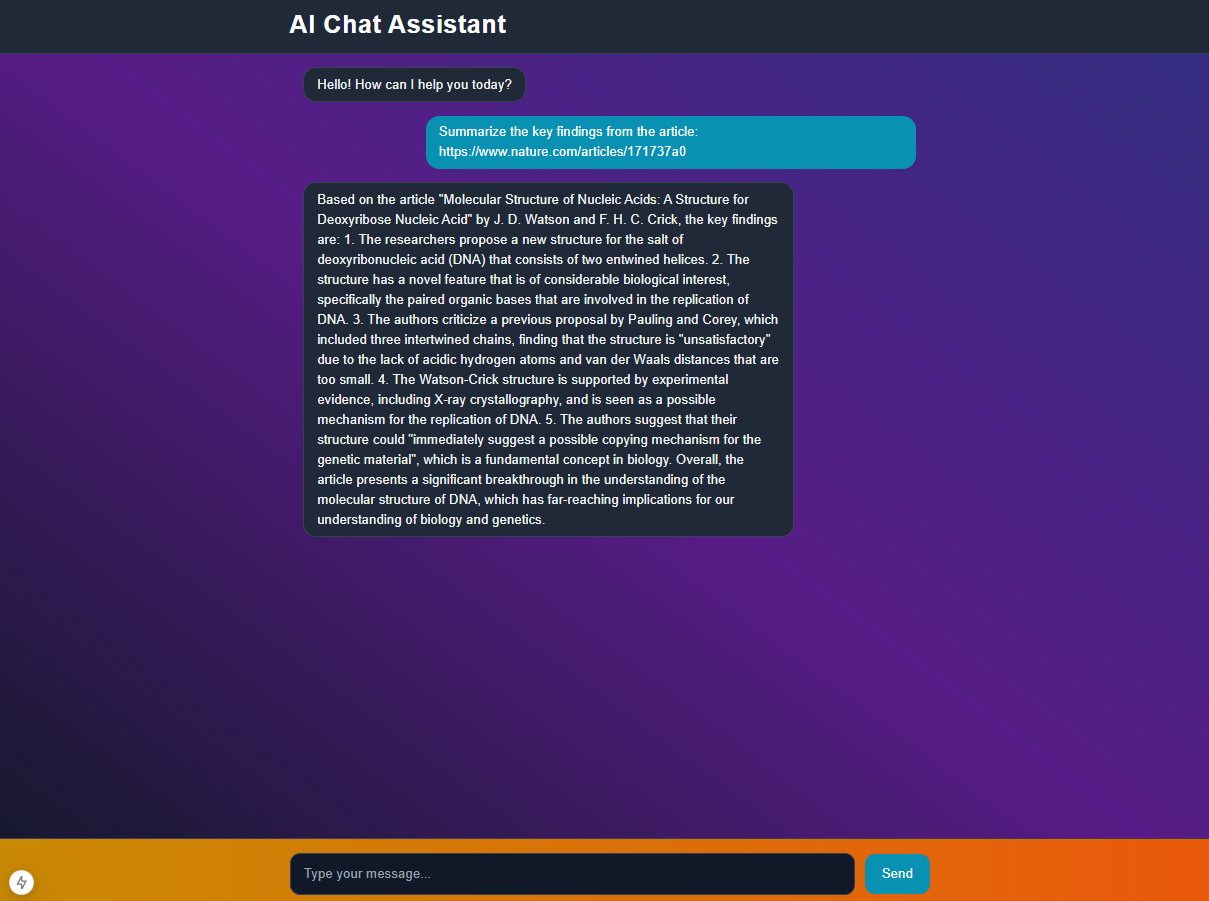
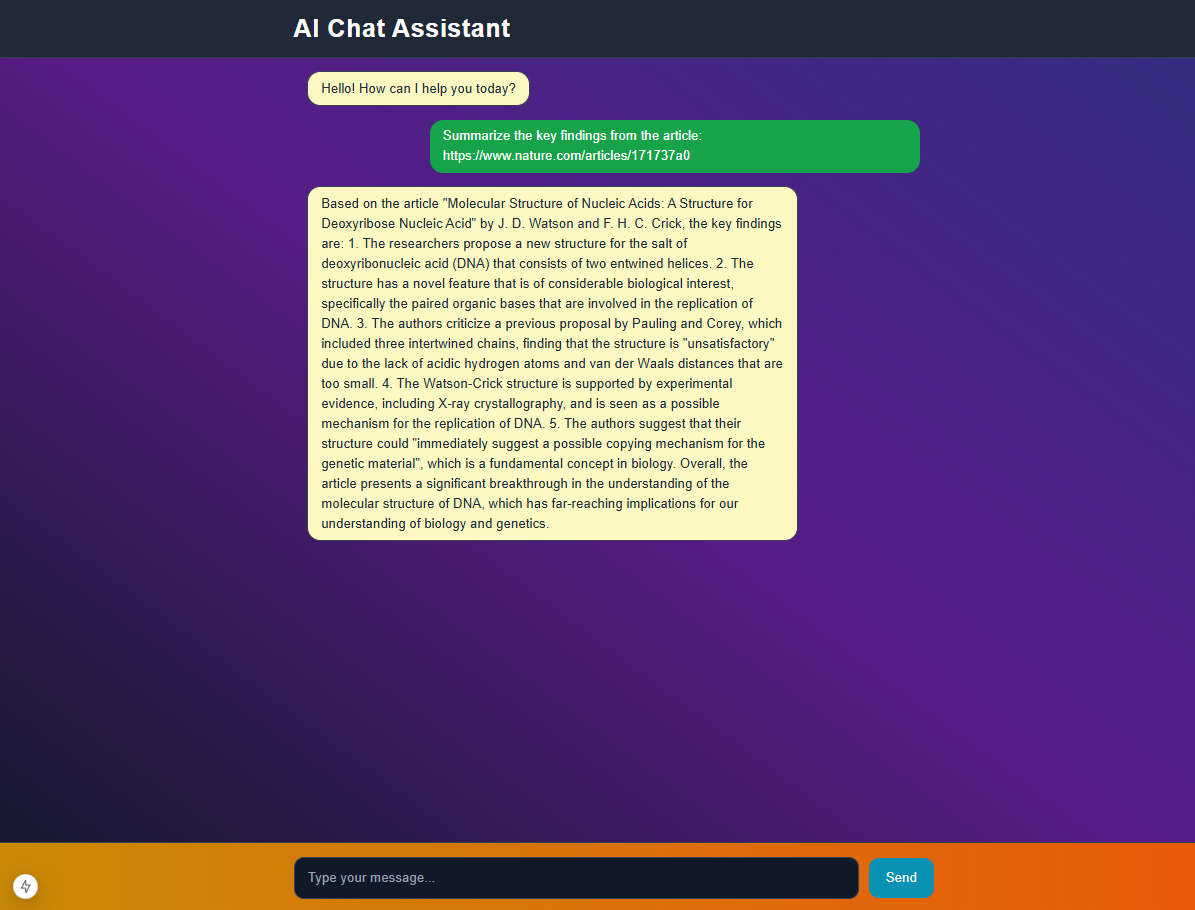
change the color of the user interface

Changed region(s): [[0.0, 0.0, 1.0, 0.6215], [0.0, 0.9012, 1.0, 0.9945], [0.0, 0.9634, 0.031, 0.9945]]

diff --git a/src/app/page.tsx b/src/app/page.tsx
@@ -83,8 +83,8 @@ export default function Home() {
               <div
                 className={`px-4 py-2 rounded-2xl max-w-[80%] ${
                   msg.role === "ai"
-                    ? "bg-gray-800 border border-gray-700 text-gray-100"
-                    : "bg-cyan-600 text-white ml-auto"
+                    ? "bg-yellow-100 border border-gray-700 text-gray-800"
+                    : "bg-green-600 text-white ml-auto"
                 }`}
               >
                 {msg.content}

diff --git a/README.md b/README.md
@@ -100,6 +100,7 @@ npm run dev
 │   ├── utils/
 │   │   ├── scrape.ts       # Logic for web scraping
 │   │   ├── cache.ts        # Redis caching functions
+│   ├── page.ts             # User Interface of the AI Chat
 │   ├── middleware.ts       # Middleware for rate limiting
 ├── .env.example            # Environment variables template
 ├── package.json            # Node.js dependencies
